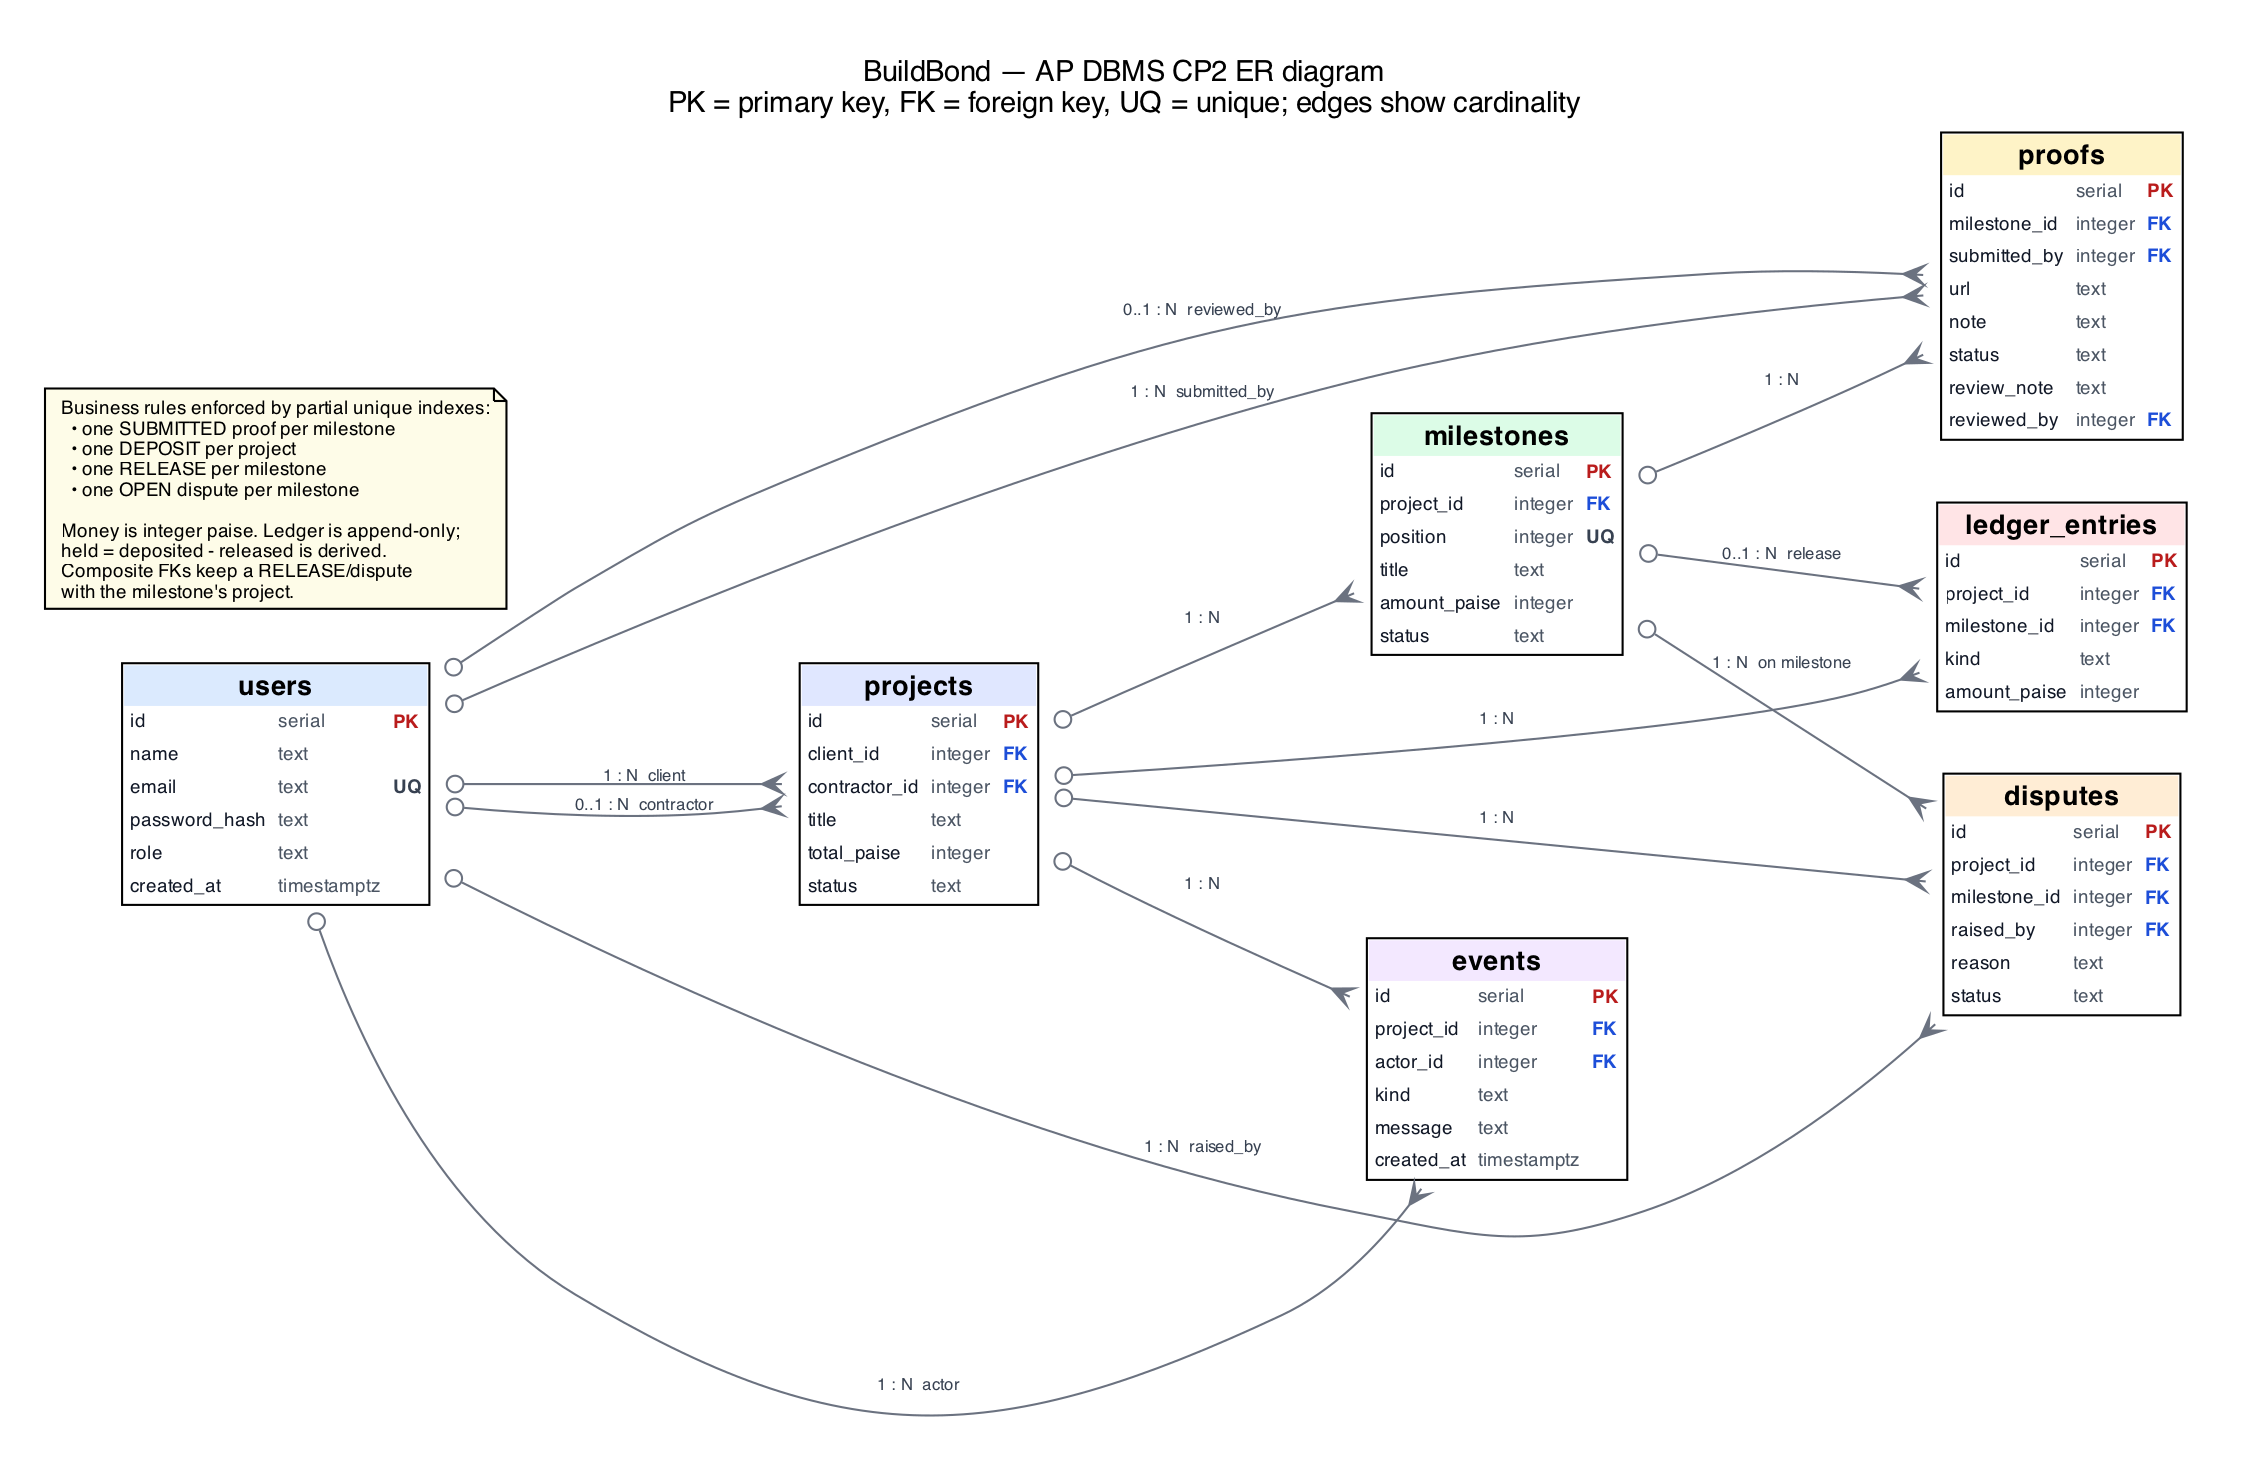
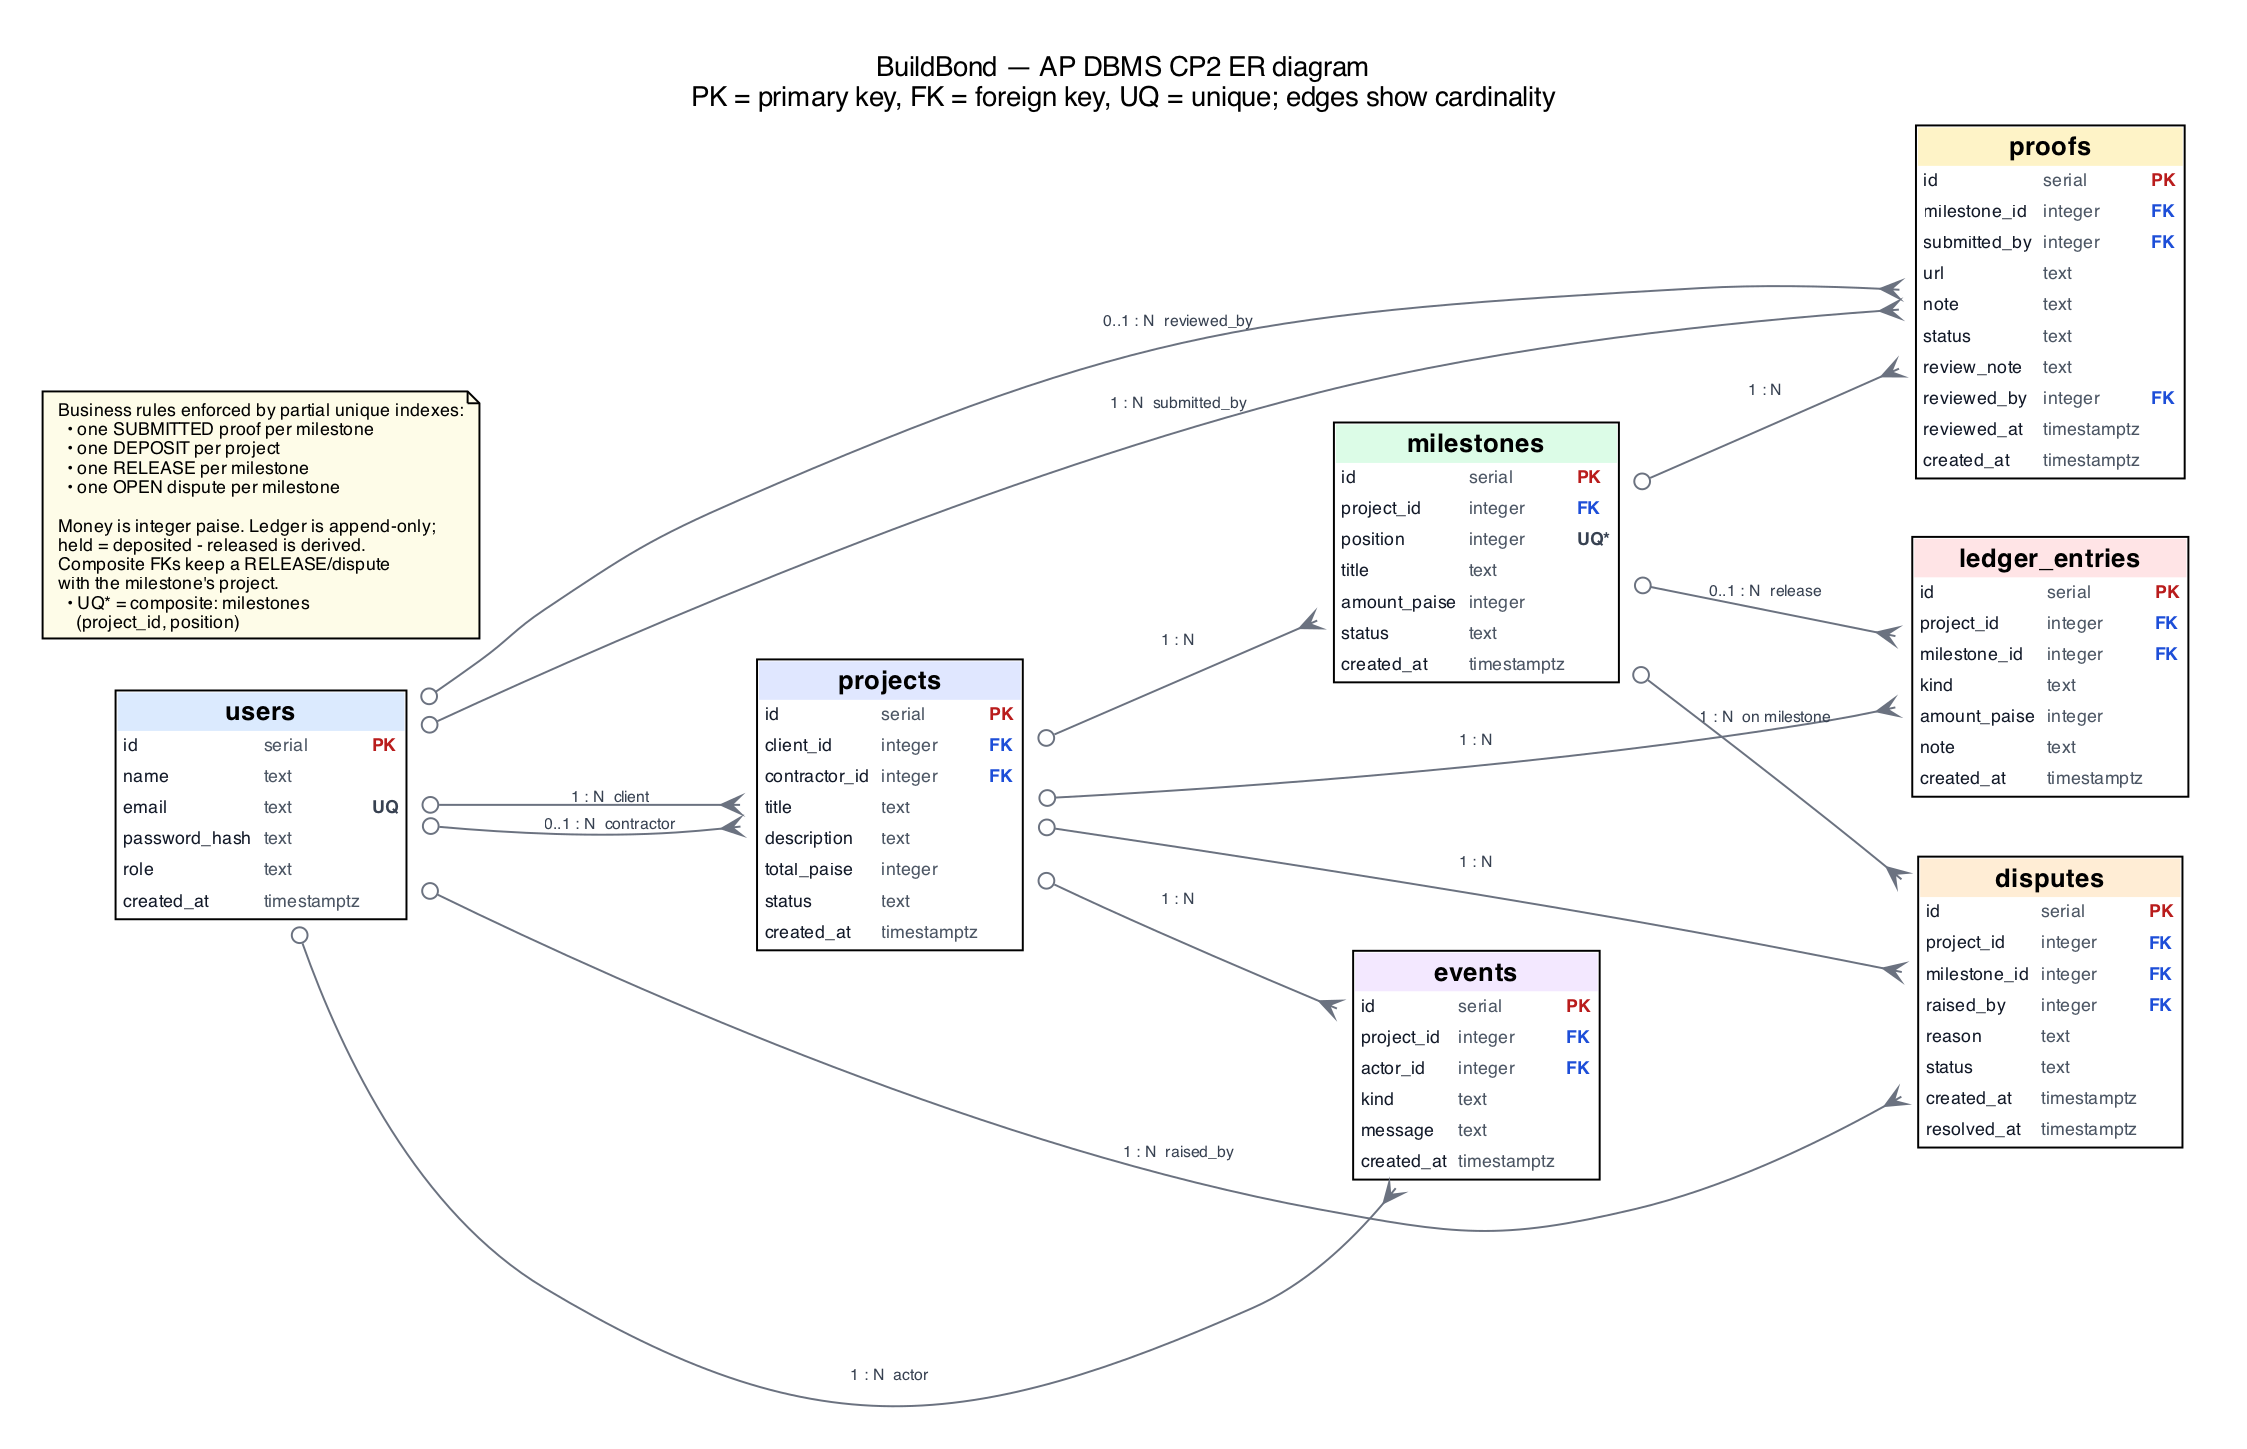
docs(dbms): sync CP2 normalization and ER diagram with the CP3 schema (#4)
CP2 was written from the README before the backend existed. CP3 (#2) then
replaced dbms/03_schema.sql with the column set the API actually writes,
which left the diagram and the normalization write-up describing an older
version of the same seven tables.

- 01_normalization.md: drop the "schema.sql contains only users" note, add
  the nine backend columns to the 3NF relation lists, and answer the question
  they raise: reviewed_at and resolved_at only hold a value in one state,
  which constrains presence but does not determine a value, so the
  determinant is still the primary key and the relations stay in 3NF.
- 02_er_diagram.mmd/.dot: same nine columns; milestones.position is marked
  unique per project rather than globally, since the constraint is
  UNIQUE (project_id, position); section 6 no longer merges the mandatory
  submitted_by edge with the nullable reviewed_by one.
- 02_er_diagram.png: regenerated from the .dot with dot -Tpng -Gdpi=142.
- dbms/check_diagram.sh: compares every column in 03_schema.sql against both
  diagram sources and fails on a missing one.

Verified: check_diagram.sh reports 52 columns declared and 52 drawn; the PNG
byte-matches a fresh render of the committed .dot. No schema, query, seed or
benchmark file is touched.

diff --git a/dbms/01_normalization.md b/dbms/01_normalization.md
@@ -8,7 +8,7 @@
 
 ## 0. Notes before we start
 
-**Source of the table design.** The seven tables and their key columns come from the *Database Design* section of the BuildBond README. `server/db/schema.sql` on `main` currently contains only `users`; the other tables are listed in the README as the target design. If a column name changes when the remaining tables land in `schema.sql`, only the names here need updating, not the reasoning.
+**Source of the table design.** The starting point was the *Database Design* section of the BuildBond README, which describes the seven tables in prose. The backend has since landed, so the column lists below were checked against `server/db/schema.sql` on `main` (commit `00f0d4a`) and against the team's `dbms/03_schema.sql`, which is the same design with additional CHECK constraints. Nine columns appeared in the backend after this document was first written and are included from the 3NF step onwards: `projects.description`, `projects.created_at`, `milestones.created_at`, `proofs.created_at`, `proofs.reviewed_at`, `ledger_entries.note`, `ledger_entries.created_at`, `disputes.created_at` and `disputes.resolved_at`. None of them changes the normalization argument; each is fully determined by its table's primary key.
 
 **Sample data is illustrative.** The seed project is *Sharma Kitchen Renovation* (₹1,50,000, step 1 released, step 2 awaiting review, step 3 pending). The milestone titles, amounts and user names below are made up for the examples and add up to the real total.
 
@@ -236,21 +236,21 @@ users( id, name, email, password_hash, role, created_at )
     role ∈ {CLIENT, CONTRACTOR}
 
 projects( id, client_id [FK → users], contractor_id [FK → users, NULL until accepted],
-          title, total_paise, status )
+          title, description, total_paise, status, created_at )
     PK = id
     status ∈ {OPEN, ACTIVE, DISPUTED, COMPLETED};  CHECK contractor_id <> client_id
 
-milestones( id, project_id [FK → projects], position, title, amount_paise, status )
+milestones( id, project_id [FK → projects], position, title, amount_paise, status, created_at )
     PK = id                     candidate key = (project_id, position)
     status ∈ {PENDING, SUBMITTED, REJECTED, RELEASED}
 
 proofs( id, milestone_id [FK → milestones], submitted_by [FK → users], url, note, status,
-        review_note, reviewed_by [FK → users, NULL until reviewed] )
+        review_note, reviewed_by [FK → users, NULL until reviewed], reviewed_at, created_at )
     PK = id
     status ∈ {SUBMITTED, APPROVED, REJECTED}
 
 ledger_entries( id, project_id [FK → projects], milestone_id [FK → milestones, NULL for deposits],
-                kind, amount_paise )
+                kind, amount_paise, note, created_at )
     PK = id
     kind ∈ {DEPOSIT, RELEASE}
 
@@ -258,10 +258,22 @@ events( id, project_id [FK → projects], actor_id [FK → users], kind, message
     PK = id
 
 disputes( id, project_id [FK → projects], milestone_id [FK → milestones],
-          raised_by [FK → users], reason, status )
+          raised_by [FK → users], reason, status, created_at, resolved_at )
     PK = id
     status ∈ {OPEN, WITHDRAWN}
 ```
+
+**Conditional attributes.** Four of these columns only carry a value in one state:
+`proofs.review_note`, `proofs.reviewed_by` and `proofs.reviewed_at` are present only once a proof
+has been reviewed, and `disputes.resolved_at` is present only once a dispute is withdrawn. That is
+not a partial dependency and not a transitive one. A functional dependency needs the left side to
+determine a *value*; `proofs.status = 'APPROVED'` decides whether `reviewed_at` is NULL, but it does
+not decide what the timestamp is, and the same status holds for every reviewer and every review
+time. So the determinant stays the primary key, and the relations remain in 3NF (and in BCNF,
+subject to the `milestone_id → project_id` note in §5). The database expresses the conditional
+part with CHECK constraints rather than by splitting the tables, because a review history that
+lives in a separate relation would have to be re-joined for every read and could drift out of
+step with the row it describes.
 
 ### Sample data
 
@@ -392,9 +404,10 @@ erDiagram
     users |o--o{ projects : "contractor_id"
     projects ||--o{ milestones : "has"
     milestones ||--o{ proofs : "has"
-    users ||--o{ proofs : "submitted_by, reviewed_by"
+    users ||--o{ proofs : "submitted_by"
+    users |o--o{ proofs : "reviewed_by"
     projects ||--o{ ledger_entries : "has"
-    milestones |o--o| ledger_entries : "release"
+    milestones ||--o| ledger_entries : "release"
     projects ||--o{ events : "logs"
     users ||--o{ events : "actor_id"
     projects ||--o{ disputes : "has"
